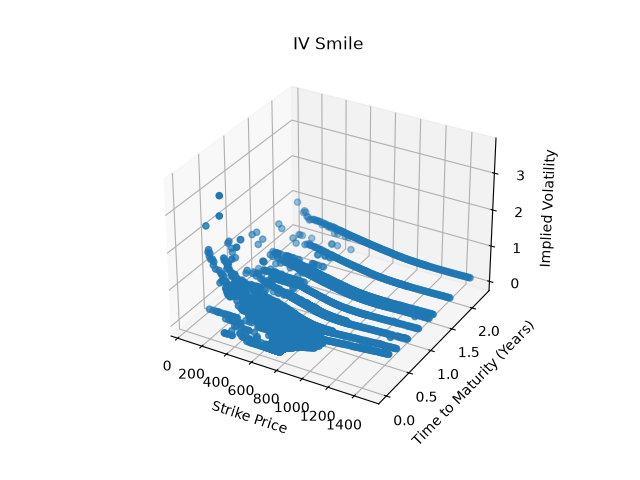
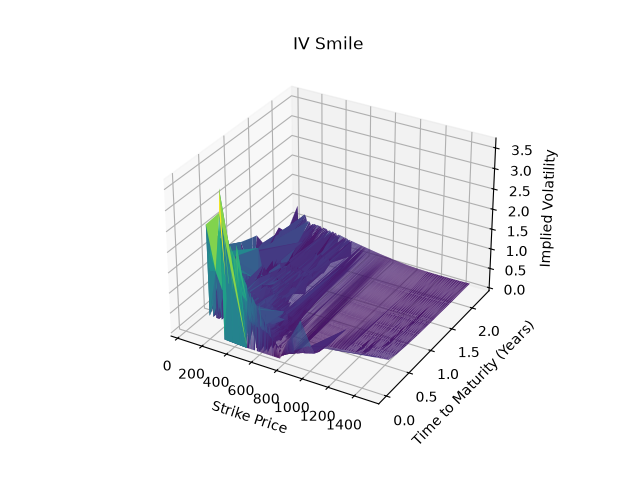
refactor: update 3D plot to use trisurf for improved visualization in IVsmile.py

diff --git a/IVsmile.py b/IVsmile.py
@@ -35,7 +35,7 @@ z = all_IV
 
 plt.figure()
 ax = plt.axes(projection='3d')
-ax.scatter(x, y, z)
+ax.plot_trisurf(x, y, z, cmap='viridis', edgecolor='none')
 ax.set_xlabel('Strike Price')
 ax.set_ylabel('Time to Maturity (Years)')
 ax.set_zlabel('Implied Volatility')
